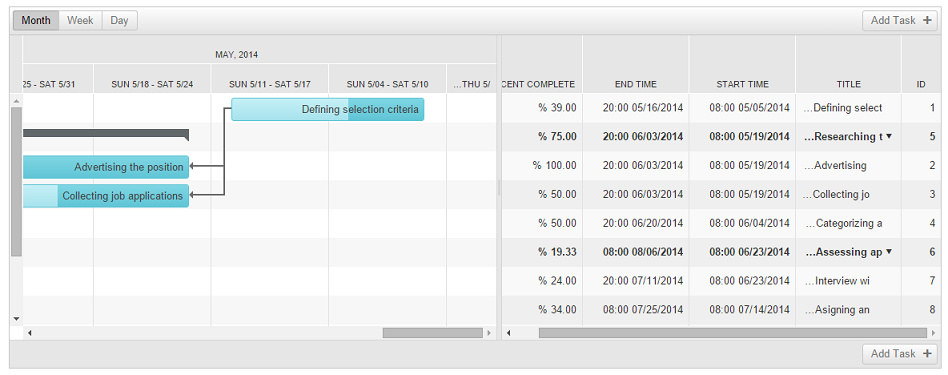
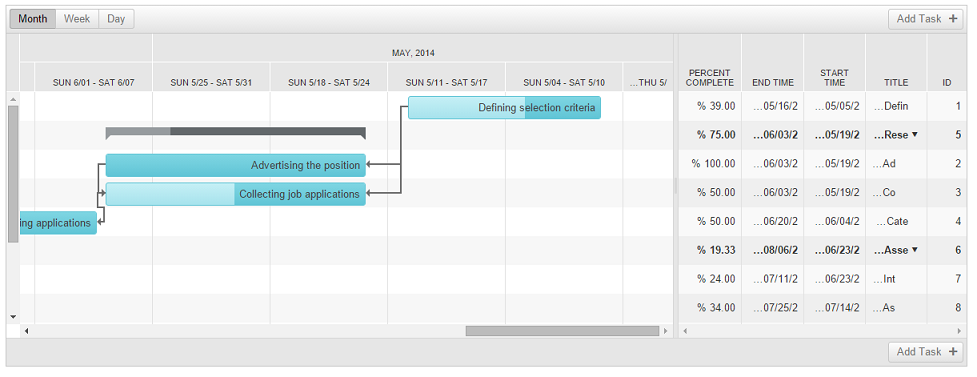
Updates to gantt articles

diff --git a/controls/gantt/functionality/column-resizing.md b/controls/gantt/functionality/column-resizing.md
@@ -15,7 +15,12 @@ position: 2
 **RadGantt** allows column resizing. This feature can be enabled/disabled by setting the control's **AllowColumnResize** property to **"true"/"false"**. To resize a column click and drag a line separating two columns in the TreeList view. 
 
 ````ASP.NET
-<telerik:RadGantt runat="server" ID="RadGantt1" AutoGenerateColumns="true" Height="450px" SelectedView="MonthView" AllowColumnResize="true" />
+<telerik:RadGantt runat="server" ID="RadGantt1"
+    AllowColumnResize="true"
+    AutoGenerateColumns="true"
+    SelectedView="MonthView"
+    Skin="Silk">
+</telerik:RadGantt>
 ````
 
 The following screenshots show the "Title" column before and after resizing:
@@ -23,4 +28,4 @@ The following screenshots show the "Title" column before and after resizing:
 ![RadGantt Column Resizing Before](images/gantt-column-resizing-before.png)
 ![RadGantt Column Resizing After](images/gantt-column-resizing-after.png)
 
-For a live example, see [Column Resizing Demo](http://demos.telerik.com/aspnet-ajax/gantt/examples/functionality/resizing-columns/defaultcs.aspx?isNew=true)
+For a live example, see [Resizing Columns Demo](http://demos.telerik.com/aspnet-ajax/gantt/examples/functionality/resizing-columns/defaultcs.aspx?isNew=true)

diff --git a/controls/gantt/accessibility-and-internationalization/rtl-support.md b/controls/gantt/accessibility-and-internationalization/rtl-support.md
@@ -15,8 +15,11 @@ position: 2
 **RadGantt** supports right-to-left direction using the direction attribute. You can enable this functionality by setting the control's **dir** attribute to **"rtl"**:
 
 ````ASP.NET
-<telerik:RadGantt ID="RadGantt1" dir="rtl" Height="450px" SelectedView="MonthView" runat="server"
-    DisplayDeleteConfirmation="false" ListWidth="50%">
+<telerik:RadGantt runat="server" ID="RadGantt1"
+    dir="rtl"
+    AutoGenerateColumns="true"
+    SelectedView="MonthView"
+    Skin="Silk">
 </telerik:RadGantt>
 ````
 
